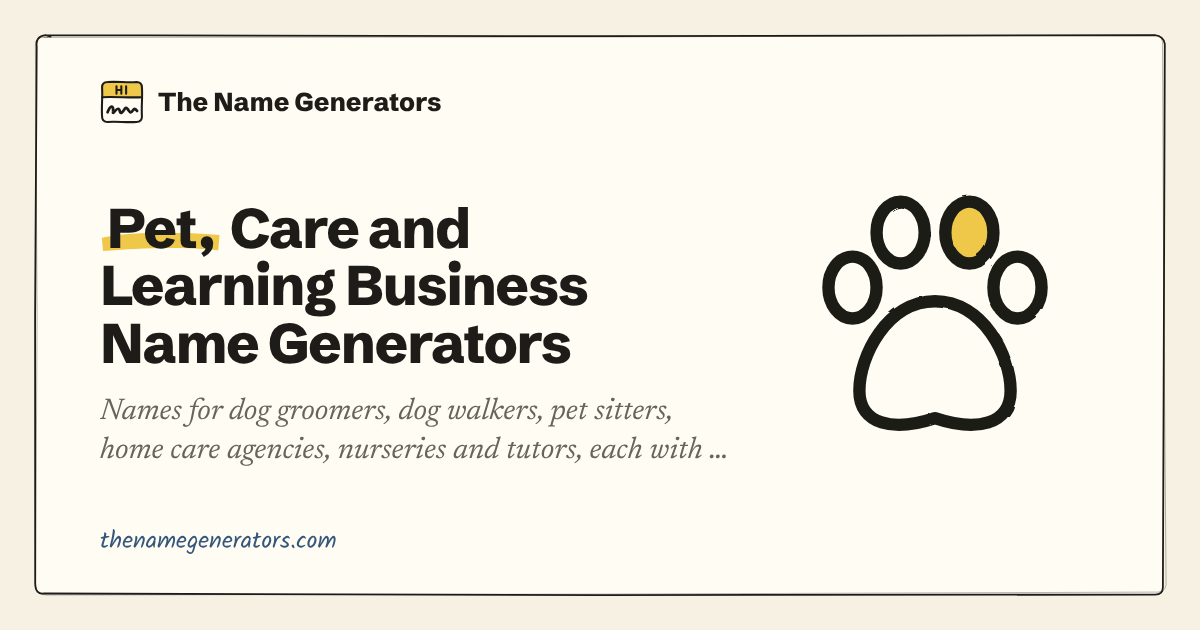
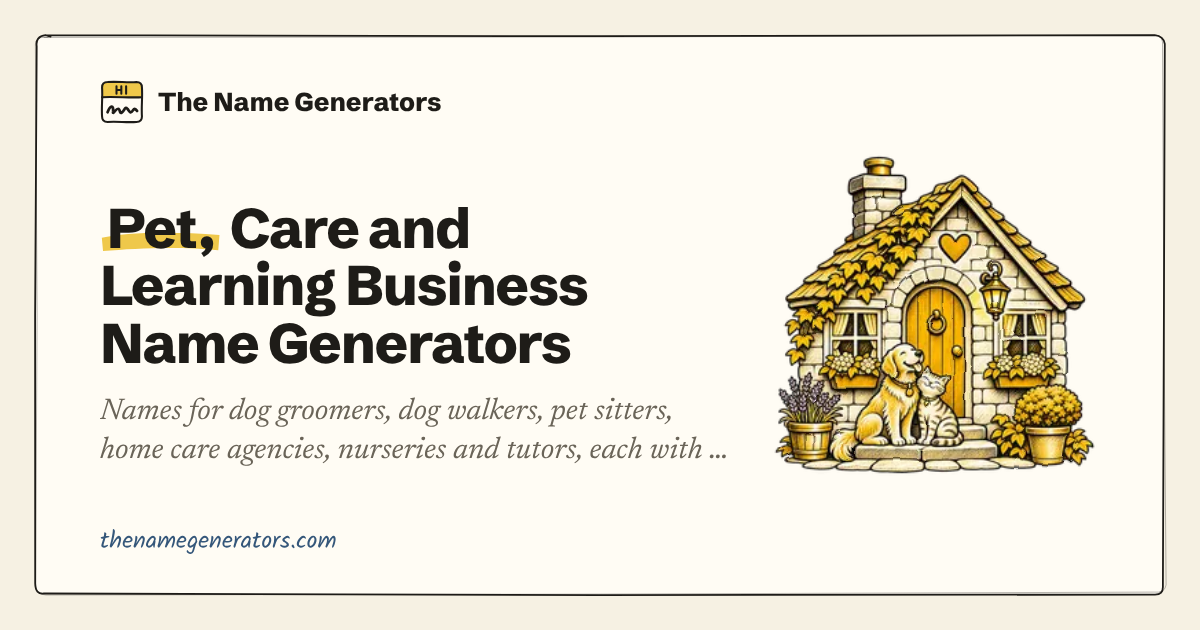
Rich's last three business pictures: gift shop, office desk, pet cottage
Shops & Makers, Professional Services and Pets, Care & Learning hubs.
Every business hub and the checker now have Rich's art.

Claude-Session: https://claude.ai/code/session_011pNxwvj5bpbeqWGuDmTbY5

Changed region(s): [[0.6475, 0.2413, 0.925, 0.754]]

diff --git a/business.html b/business.html
@@ -119,9 +119,10 @@
       <symbol id="m-cafe-front" viewBox="0 0 48 48"><image href="/images/motifs/cafe-front.webp?v=2" width="48" height="48"/></symbol>
       <symbol id="m-salon-chair" viewBox="0 0 48 48"><image href="/images/motifs/salon-chair.webp?v=2" width="48" height="48"/></symbol>
       <symbol id="m-toolbox" viewBox="0 0 48 48"><image href="/images/motifs/toolbox.webp?v=2" width="48" height="48"/></symbol>
-      <symbol id="m-shopfront" viewBox="0 0 48 48"><g fill="none" stroke="#1e1c18" stroke-width="1.8" stroke-linecap="round" stroke-linejoin="round"><path d="M9 22 V43 H39 V22" fill="#fffcf4"/><path d="M6 13 H42 V21 H6 Z" fill="#efc84a"/><path d="M6 21 c2 3 5 3 6 0 c1 3 5 3 6 0 c1 3 5 3 6 0 c1 3 5 3 6 0 c1 3 5 3 6 0 c1 3 4 3 6 0" stroke-width="1.4"/><path d="M14 43 V30 h7 V43 M25 29 h10 v8 h-10 z M5 43 H43"/></g></symbol>
+      <symbol id="m-gift-shop" viewBox="0 0 48 48"><image href="/images/motifs/gift-shop.webp?v=2" width="48" height="48"/></symbol>
+      <symbol id="m-office-desk" viewBox="0 0 48 48"><image href="/images/motifs/office-desk.webp?v=2" width="48" height="48"/></symbol>
+      <symbol id="m-pet-cottage" viewBox="0 0 48 48"><image href="/images/motifs/pet-cottage.webp?v=2" width="48" height="48"/></symbol>
       <symbol id="m-lightbulb" viewBox="0 0 48 48"><g fill="none" stroke="#1e1c18" stroke-width="1.8" stroke-linecap="round" stroke-linejoin="round"><path d="M24 5 C32 5 37 11 37 17 C37 24 31 26 31 33 L17 33 C17 26 11 24 11 17 C11 11 16 5 24 5 Z" fill="#efc84a"/><path d="M18 37 h12 M19 41 h10"/><path d="M21 33 V22 l3 3 l3 -3 V33" stroke-width="1.3"/></g></symbol>
-      <symbol id="m-paw" viewBox="0 0 48 48"><g fill="none" stroke="#1e1c18" stroke-width="1.8" stroke-linecap="round" stroke-linejoin="round"><path d="M24 22 C31 22 35 30 35 35 C35 40 30 41 24 39 C18 41 13 40 13 35 C13 30 17 22 24 22 Z" fill="#fffcf4"/><ellipse cx="12" cy="20" rx="3.5" ry="4.5" fill="#fffcf4"/><ellipse cx="19" cy="12" rx="3.5" ry="4.5" fill="#fffcf4"/><ellipse cx="29" cy="12" rx="3.5" ry="4.5" fill="#efc84a"/><ellipse cx="36" cy="20" rx="3.5" ry="4.5" fill="#fffcf4"/></g></symbol>
       <symbol id="m-building" viewBox="0 0 48 48"><g fill="none" stroke="#1e1c18" stroke-width="1.8" stroke-linecap="round" stroke-linejoin="round"><path d="M30 20 H40 V44 H30" fill="#fffcf4"/><path d="M10 7 H30 V44 H10 Z" fill="#fffcf4"/><path d="M14 12 h4 v4 h-4 z M22 12 h4 v4 h-4 z M14 20 h4 v4 h-4 z M22 20 h4 v4 h-4 z M14 28 h4 v4 h-4 z M22 28 h4 v4 h-4 z M33 25 h4 M33 31 h4" stroke-width="1.3"/><path d="M18 44 V37 h4 V44"/><path d="M4 45 C14 42 30 47 44 44" stroke="#efc84a" stroke-width="3"/></g></symbol>
       <symbol id="m-tag" viewBox="0 0 48 48"><g fill="none" stroke="#1e1c18" stroke-width="1.8" stroke-linecap="round" stroke-linejoin="round"><path d="M24 6 H40 V22 L22 40 L8 26 Z" fill="#fffcf4"/><circle cx="34" cy="12" r="2.5"/><path d="M34 12 C38 6 44 6 44 10" stroke-width="1.3"/><path d="M14 26 L22 34" stroke="#efc84a" stroke-width="4"/></g></symbol>
       <symbol id="m-cup" viewBox="0 0 48 48"><g fill="none" stroke="#1e1c18" stroke-width="1.8" stroke-linecap="round" stroke-linejoin="round"><path d="M12 18 H34 L32 38 C32 41 30 42 28 42 H18 C16 42 14 41 14 38 Z" fill="#fffcf4"/><path d="M34 22 C41 22 41 32 33 32"/><path d="M7 44 H39"/><path d="M19 13 c-2 -3 2 -5 0 -9 M27 13 c-2 -3 2 -5 0 -9" stroke="#efc84a" stroke-width="2.6"/></g></symbol>
@@ -248,9 +249,9 @@
                     <a class="trycard hd tap" href="categories/biz_food-names.html"><svg class="doodle try-d wob" viewBox="0 0 48 48" aria-hidden="true" focusable="false"><use href="#m-cafe-front"/></svg><span class="try-t"><b>Food &amp; Drink Businesses</b><span>Names for bakeries, cake makers, food trucks, caterers, bars and cafés, each with a check to see if it&#039;s free.</span><span class="biz-count">5 generators →</span></span></a>
                     <a class="trycard hd tap" href="categories/biz_beauty-names.html"><svg class="doodle try-d wob" viewBox="0 0 48 48" aria-hidden="true" focusable="false"><use href="#m-salon-chair"/></svg><span class="try-t"><b>Beauty Businesses</b><span>Names for hair and beauty salons, nail techs, lash studios, spas and fitness businesses, each with a check to see if it&#039;s free.</span><span class="biz-count">8 generators →</span></span></a>
                     <a class="trycard hd tap" href="categories/biz_trades-names.html"><svg class="doodle try-d wob" viewBox="0 0 48 48" aria-hidden="true" focusable="false"><use href="#m-toolbox"/></svg><span class="try-t"><b>Trades &amp; Home Services</b><span>Names for cleaners, builders, landscapers, plumbers and other trades, each with a check to see if it&#039;s free.</span><span class="biz-count">8 generators →</span></span></a>
-                    <a class="trycard hd tap" href="categories/biz_shops-names.html"><svg class="doodle try-d wob" viewBox="0 0 48 48" aria-hidden="true" focusable="false"><use href="#m-shopfront"/></svg><span class="try-t"><b>Shops &amp; Makers</b><span>Names for clothing brands, boutiques, candle makers, jewellers and Etsy shops, each with a check to see if it&#039;s free.</span><span class="biz-count">5 generators →</span></span></a>
-                    <a class="trycard hd tap" href="categories/biz_services-names.html"><svg class="doodle try-d wob" viewBox="0 0 48 48" aria-hidden="true" focusable="false"><use href="#m-lightbulb"/></svg><span class="try-t"><b>Professional Services</b><span>Names for consultants, photographers, estate agents, event planners and agencies, each with a check to see if it&#039;s free.</span><span class="biz-count">10 generators →</span></span></a>
-                    <a class="trycard hd tap" href="categories/biz_care-names.html"><svg class="doodle try-d wob" viewBox="0 0 48 48" aria-hidden="true" focusable="false"><use href="#m-paw"/></svg><span class="try-t"><b>Pets, Care &amp; Learning</b><span>Names for dog groomers, dog walkers, pet sitters, home care agencies, nurseries and tutors, each with a check to see if it&#039;s free.</span><span class="biz-count">4 generators →</span></span></a>
+                    <a class="trycard hd tap" href="categories/biz_shops-names.html"><svg class="doodle try-d wob" viewBox="0 0 48 48" aria-hidden="true" focusable="false"><use href="#m-gift-shop"/></svg><span class="try-t"><b>Shops &amp; Makers</b><span>Names for clothing brands, boutiques, candle makers, jewellers and Etsy shops, each with a check to see if it&#039;s free.</span><span class="biz-count">5 generators →</span></span></a>
+                    <a class="trycard hd tap" href="categories/biz_services-names.html"><svg class="doodle try-d wob" viewBox="0 0 48 48" aria-hidden="true" focusable="false"><use href="#m-office-desk"/></svg><span class="try-t"><b>Professional Services</b><span>Names for consultants, photographers, estate agents, event planners and agencies, each with a check to see if it&#039;s free.</span><span class="biz-count">10 generators →</span></span></a>
+                    <a class="trycard hd tap" href="categories/biz_care-names.html"><svg class="doodle try-d wob" viewBox="0 0 48 48" aria-hidden="true" focusable="false"><use href="#m-pet-cottage"/></svg><span class="try-t"><b>Pets, Care &amp; Learning</b><span>Names for dog groomers, dog walkers, pet sitters, home care agencies, nurseries and tutors, each with a check to see if it&#039;s free.</span><span class="biz-count">4 generators →</span></span></a>
                 </div>
             </section>
             <div class="brk" aria-hidden="true"><svg class="brk-line wob" viewBox="0 0 120 10" preserveAspectRatio="none" aria-hidden="true" focusable="false"><path d="M2 5 C20 2 35 8 60 5 S100 3 118 5" fill="none" stroke="#1e1c18" stroke-width="1.6" stroke-linecap="round" vector-effect="non-scaling-stroke"/></svg><svg class="brk-d wob" viewBox="0 0 48 48" aria-hidden="true" focusable="false"><use href="#m-shopfront"/></svg><svg class="brk-line wob" viewBox="0 0 120 10" preserveAspectRatio="none" aria-hidden="true" focusable="false"><path d="M2 5 C20 2 35 8 60 5 S100 3 118 5" fill="none" stroke="#1e1c18" stroke-width="1.6" stroke-linecap="round" vector-effect="non-scaling-stroke"/></svg></div>

diff --git a/404.html b/404.html
@@ -55,10 +55,11 @@
       <symbol id="m-hourglass" viewBox="0 0 48 48"><g fill="none" stroke="#1e1c18" stroke-width="1.8" stroke-linecap="round" stroke-linejoin="round"><path d="M11 5 H37 M11 43 H37"/><path d="M15 5 C15 17 23 20 23 24 C23 28 15 31 15 43 H33 C33 31 25 28 25 24 C25 20 33 17 33 5 Z" fill="#fffcf4"/><path d="M18 40 C20 35 28 35 30 40 Z" fill="#efc84a"/><path d="M24 28 V34" stroke-width="1.2"/></g></symbol>
       <symbol id="m-clapper" viewBox="0 0 48 48"><g fill="none" stroke="#1e1c18" stroke-width="1.8" stroke-linecap="round" stroke-linejoin="round"><rect x="8" y="19" width="32" height="23" rx="2" fill="#fffcf4"/><path d="M8 19 L37 8 L39 14 L10 25"/><path d="M15 16 L18 22 M23 13 L26 19 M31 10 L34 16" stroke-width="1.3"/><path d="M14 31 h20" stroke="#efc84a" stroke-width="3"/></g></symbol>
       <symbol id="m-toolbox" viewBox="0 0 48 48"><image href="/images/motifs/toolbox.webp?v=2" width="48" height="48"/></symbol>
-      <symbol id="m-paw" viewBox="0 0 48 48"><g fill="none" stroke="#1e1c18" stroke-width="1.8" stroke-linecap="round" stroke-linejoin="round"><path d="M24 22 C31 22 35 30 35 35 C35 40 30 41 24 39 C18 41 13 40 13 35 C13 30 17 22 24 22 Z" fill="#fffcf4"/><ellipse cx="12" cy="20" rx="3.5" ry="4.5" fill="#fffcf4"/><ellipse cx="19" cy="12" rx="3.5" ry="4.5" fill="#fffcf4"/><ellipse cx="29" cy="12" rx="3.5" ry="4.5" fill="#efc84a"/><ellipse cx="36" cy="20" rx="3.5" ry="4.5" fill="#fffcf4"/></g></symbol>
+      <symbol id="m-office-desk" viewBox="0 0 48 48"><image href="/images/motifs/office-desk.webp?v=2" width="48" height="48"/></symbol>
+      <symbol id="m-pet-cottage" viewBox="0 0 48 48"><image href="/images/motifs/pet-cottage.webp?v=2" width="48" height="48"/></symbol>
       <symbol id="m-salon-chair" viewBox="0 0 48 48"><image href="/images/motifs/salon-chair.webp?v=2" width="48" height="48"/></symbol>
       <symbol id="m-cafe-front" viewBox="0 0 48 48"><image href="/images/motifs/cafe-front.webp?v=2" width="48" height="48"/></symbol>
-      <symbol id="m-shopfront" viewBox="0 0 48 48"><g fill="none" stroke="#1e1c18" stroke-width="1.8" stroke-linecap="round" stroke-linejoin="round"><path d="M9 22 V43 H39 V22" fill="#fffcf4"/><path d="M6 13 H42 V21 H6 Z" fill="#efc84a"/><path d="M6 21 c2 3 5 3 6 0 c1 3 5 3 6 0 c1 3 5 3 6 0 c1 3 5 3 6 0 c1 3 5 3 6 0 c1 3 4 3 6 0" stroke-width="1.4"/><path d="M14 43 V30 h7 V43 M25 29 h10 v8 h-10 z M5 43 H43"/></g></symbol>
+      <symbol id="m-gift-shop" viewBox="0 0 48 48"><image href="/images/motifs/gift-shop.webp?v=2" width="48" height="48"/></symbol>
     </defs></svg>
     <header class="site-header">
       <div class="wrap bar">
@@ -196,11 +197,11 @@
                     <a href="/categories/historical-names.html" class="cat hd tap"><svg class="doodle wob" viewBox="0 0 48 48" aria-hidden="true" focusable="false"><use href="#m-hourglass"/></svg><div><b>Historical</b><span>11 generators</span></div><em aria-hidden="true">→</em></a>
                     <a href="/categories/pop_culture-names.html" class="cat hd tap"><svg class="doodle wob" viewBox="0 0 48 48" aria-hidden="true" focusable="false"><use href="#m-clapper"/></svg><div><b>Pop Culture</b><span>28 generators</span></div><em aria-hidden="true">→</em></a>
                     <a href="/categories/biz_trades-names.html" class="cat hd tap"><svg class="doodle wob" viewBox="0 0 48 48" aria-hidden="true" focusable="false"><use href="#m-toolbox"/></svg><div><b>Trades &amp; Home Services Business Names</b><span>8 generators</span></div><em aria-hidden="true">→</em></a>
-                    <a href="/categories/biz_services-names.html" class="cat hd tap"><svg class="doodle wob" viewBox="0 0 48 48" aria-hidden="true" focusable="false"><use href="#m-lightbulb"/></svg><div><b>Professional &amp; Creative Business Names</b><span>10 generators</span></div><em aria-hidden="true">→</em></a>
-                    <a href="/categories/biz_care-names.html" class="cat hd tap"><svg class="doodle wob" viewBox="0 0 48 48" aria-hidden="true" focusable="false"><use href="#m-paw"/></svg><div><b>Pets, Care &amp; Learning Business Names</b><span>4 generators</span></div><em aria-hidden="true">→</em></a>
+                    <a href="/categories/biz_services-names.html" class="cat hd tap"><svg class="doodle wob" viewBox="0 0 48 48" aria-hidden="true" focusable="false"><use href="#m-office-desk"/></svg><div><b>Professional &amp; Creative Business Names</b><span>10 generators</span></div><em aria-hidden="true">→</em></a>
+                    <a href="/categories/biz_care-names.html" class="cat hd tap"><svg class="doodle wob" viewBox="0 0 48 48" aria-hidden="true" focusable="false"><use href="#m-pet-cottage"/></svg><div><b>Pets, Care &amp; Learning Business Names</b><span>4 generators</span></div><em aria-hidden="true">→</em></a>
                     <a href="/categories/biz_beauty-names.html" class="cat hd tap"><svg class="doodle wob" viewBox="0 0 48 48" aria-hidden="true" focusable="false"><use href="#m-salon-chair"/></svg><div><b>Beauty &amp; Wellness Business Names</b><span>8 generators</span></div><em aria-hidden="true">→</em></a>
                     <a href="/categories/biz_food-names.html" class="cat hd tap"><svg class="doodle wob" viewBox="0 0 48 48" aria-hidden="true" focusable="false"><use href="#m-cafe-front"/></svg><div><b>Food &amp; Drink Business Names</b><span>5 generators</span></div><em aria-hidden="true">→</em></a>
-                    <a href="/categories/biz_shops-names.html" class="cat hd tap"><svg class="doodle wob" viewBox="0 0 48 48" aria-hidden="true" focusable="false"><use href="#m-shopfront"/></svg><div><b>Shops, Brands &amp; Makers Business Names</b><span>5 generators</span></div><em aria-hidden="true">→</em></a>
+                    <a href="/categories/biz_shops-names.html" class="cat hd tap"><svg class="doodle wob" viewBox="0 0 48 48" aria-hidden="true" focusable="false"><use href="#m-gift-shop"/></svg><div><b>Shops, Brands &amp; Makers Business Names</b><span>5 generators</span></div><em aria-hidden="true">→</em></a>
                 </div>
             </section>
         </main>

diff --git a/categories/biz_care-names.html b/categories/biz_care-names.html
@@ -105,6 +105,7 @@
       <symbol id="i-search" viewBox="0 0 22 22"><circle cx="9.5" cy="9.5" r="6.5" fill="none" stroke="currentColor" stroke-width="2.2"/><path d="M14.5 14.5 L20 20" fill="none" stroke="currentColor" stroke-width="2.4" stroke-linecap="round"/></symbol>
       <symbol id="i-doc" viewBox="0 0 16 20"><path d="M2 1.5 H10 L14 5.5 V18.5 H2 Z" fill="none" stroke="currentColor" stroke-width="1.5" stroke-linejoin="round"/><path d="M10 1.5 V5.5 H14 M5 10 h6 M5 13 h6 M5 16 h4" fill="none" stroke="currentColor" stroke-width="1.3" stroke-linecap="round"/></symbol>
       <symbol id="i-tick" viewBox="0 0 22 18"><path d="M2 10 C5 12 7 14 8 16 C11 10 15 5 20 2" fill="none" stroke="currentColor" stroke-width="2" stroke-linecap="round"/></symbol>
+      <symbol id="m-pet-cottage" viewBox="0 0 48 48"><image href="/images/motifs/pet-cottage.webp?v=2" width="48" height="48"/></symbol>
       <symbol id="m-paw" viewBox="0 0 48 48"><g fill="none" stroke="#1e1c18" stroke-width="1.8" stroke-linecap="round" stroke-linejoin="round"><path d="M24 22 C31 22 35 30 35 35 C35 40 30 41 24 39 C18 41 13 40 13 35 C13 30 17 22 24 22 Z" fill="#fffcf4"/><ellipse cx="12" cy="20" rx="3.5" ry="4.5" fill="#fffcf4"/><ellipse cx="19" cy="12" rx="3.5" ry="4.5" fill="#fffcf4"/><ellipse cx="29" cy="12" rx="3.5" ry="4.5" fill="#efc84a"/><ellipse cx="36" cy="20" rx="3.5" ry="4.5" fill="#fffcf4"/></g></symbol>
       <symbol id="m-dog" viewBox="0 0 48 48"><g fill="none" stroke="#1e1c18" stroke-width="1.8" stroke-linecap="round" stroke-linejoin="round"><path d="M15 12 C18 8 30 8 33 12 C37 18 37 30 31 36 C28 39 20 39 17 36 C11 30 11 18 15 12 Z" fill="#fffcf4"/><path d="M15 11 C8 11 5 21 9 28 C12 26 14 20 16.5 15 Z" fill="#efc84a"/><path d="M33 11 C40 11 43 21 39 28 C36 26 34 20 31.5 15 Z" fill="#efc84a"/><circle cx="20" cy="21" r="1.5" fill="#1e1c18"/><circle cx="28" cy="21" r="1.5" fill="#1e1c18"/><path d="M18 30 C18 25 30 25 30 30 C30 35 18 35 18 30 Z" fill="#fffcf4"/><path d="M22 27.5 h4 l-2 2.2 z" fill="#1e1c18" stroke-width="1"/><path d="M24 29.8 v2 M21.5 32.8 C23 34 25 34 26.5 32.8" stroke-width="1.2"/></g></symbol>
       <symbol id="m-house" viewBox="0 0 48 48"><g fill="none" stroke="#1e1c18" stroke-width="1.8" stroke-linecap="round" stroke-linejoin="round"><path d="M30 13 V6 h4 v10" fill="#fffcf4"/><path d="M12 20 V42 H36 V20" fill="#fffcf4"/><path d="M8 22 L24 8 L40 22"/><path d="M21 42 V32 h6 V42"/><path d="M15 26 h4 v4 h-4 z M29 26 h4 v4 h-4 z" stroke-width="1.3"/><path d="M4 45 C14 42 30 47 44 44" stroke="#efc84a" stroke-width="3"/></g></symbol>
@@ -217,7 +218,7 @@
                     <p class="eyebrow">Business names by trade</p>
                     <div class="titlerow">
                         <h1><span class="hl">Pets,</span> Care &amp; Learning</h1>
-                        <svg class="doodle wob" viewBox="0 0 48 48" aria-hidden="true" focusable="false"><use href="#m-paw"/></svg>
+                        <svg class="doodle wob" viewBox="0 0 48 48" aria-hidden="true" focusable="false"><use href="#m-pet-cottage"/></svg>
                     </div>
                     <p class="lede">Names for dog groomers, dog walkers, pet sitters, home care agencies, nurseries and tutors, each with a check to see if it&#039;s free.</p>
                 </div>
@@ -301,7 +302,7 @@
                     <a href="../posts/home-care-name-generator.html" class="trycard hd tap"><svg class="doodle try-d wob" viewBox="0 0 48 48" aria-hidden="true" focusable="false"><use href="#m-house"/></svg><span class="try-t"><b>Home Care Name Generator</b><span>Calm, kind names for a home care agency.</span></span><em aria-hidden="true">→</em></a>
                 </div>
             </section>
-            <div class="brk" aria-hidden="true"><svg class="brk-line wob" viewBox="0 0 120 10" preserveAspectRatio="none" aria-hidden="true" focusable="false"><path d="M2 5 C20 2 35 8 60 5 S100 3 118 5" fill="none" stroke="#1e1c18" stroke-width="1.6" stroke-linecap="round" vector-effect="non-scaling-stroke"/></svg><svg class="brk-d wob" viewBox="0 0 48 48" aria-hidden="true" focusable="false"><use href="#m-paw"/></svg><svg class="brk-line wob" viewBox="0 0 120 10" preserveAspectRatio="none" aria-hidden="true" focusable="false"><path d="M2 5 C20 2 35 8 60 5 S100 3 118 5" fill="none" stroke="#1e1c18" stroke-width="1.6" stroke-linecap="round" vector-effect="non-scaling-stroke"/></svg></div>
+            <div class="brk" aria-hidden="true"><svg class="brk-line wob" viewBox="0 0 120 10" preserveAspectRatio="none" aria-hidden="true" focusable="false"><path d="M2 5 C20 2 35 8 60 5 S100 3 118 5" fill="none" stroke="#1e1c18" stroke-width="1.6" stroke-linecap="round" vector-effect="non-scaling-stroke"/></svg><svg class="brk-d wob" viewBox="0 0 48 48" aria-hidden="true" focusable="false"><use href="#m-pet-cottage"/></svg><svg class="brk-line wob" viewBox="0 0 120 10" preserveAspectRatio="none" aria-hidden="true" focusable="false"><path d="M2 5 C20 2 35 8 60 5 S100 3 118 5" fill="none" stroke="#1e1c18" stroke-width="1.6" stroke-linecap="round" vector-effect="non-scaling-stroke"/></svg></div>
 
             <section class="section">
                 <h2>All 4 Pets, Care &amp; Learning Business Names generators</h2>

diff --git a/categories/biz_services-names.html b/categories/biz_services-names.html
@@ -141,6 +141,7 @@
       <symbol id="i-search" viewBox="0 0 22 22"><circle cx="9.5" cy="9.5" r="6.5" fill="none" stroke="currentColor" stroke-width="2.2"/><path d="M14.5 14.5 L20 20" fill="none" stroke="currentColor" stroke-width="2.4" stroke-linecap="round"/></symbol>
       <symbol id="i-doc" viewBox="0 0 16 20"><path d="M2 1.5 H10 L14 5.5 V18.5 H2 Z" fill="none" stroke="currentColor" stroke-width="1.5" stroke-linejoin="round"/><path d="M10 1.5 V5.5 H14 M5 10 h6 M5 13 h6 M5 16 h4" fill="none" stroke="currentColor" stroke-width="1.3" stroke-linecap="round"/></symbol>
       <symbol id="i-tick" viewBox="0 0 22 18"><path d="M2 10 C5 12 7 14 8 16 C11 10 15 5 20 2" fill="none" stroke="currentColor" stroke-width="2" stroke-linecap="round"/></symbol>
+      <symbol id="m-office-desk" viewBox="0 0 48 48"><image href="/images/motifs/office-desk.webp?v=2" width="48" height="48"/></symbol>
       <symbol id="m-lightbulb" viewBox="0 0 48 48"><g fill="none" stroke="#1e1c18" stroke-width="1.8" stroke-linecap="round" stroke-linejoin="round"><path d="M24 5 C32 5 37 11 37 17 C37 24 31 26 31 33 L17 33 C17 26 11 24 11 17 C11 11 16 5 24 5 Z" fill="#efc84a"/><path d="M18 37 h12 M19 41 h10"/><path d="M21 33 V22 l3 3 l3 -3 V33" stroke-width="1.3"/></g></symbol>
       <symbol id="m-bunting" viewBox="0 0 48 48"><g fill="none" stroke="#1e1c18" stroke-width="1.8" stroke-linecap="round" stroke-linejoin="round"><path d="M3 9 C15 18 33 18 45 9"/><path d="M8 12 l3 10 l5 -8" fill="#efc84a"/><path d="M19 15 l3 10 l4 -10" fill="#fffcf4"/><path d="M29 15 l3 10 l4 -9" fill="#efc84a"/><path d="M39 12 l2 9 l3 -7" fill="#fffcf4"/><path d="M14 36 l2 -4 l2 4 M28 40 l3 -3 M35 33 l3 1" stroke-width="1.5"/></g></symbol>
       <symbol id="m-film-reel" viewBox="0 0 48 48"><g fill="none" stroke="#1e1c18" stroke-width="1.8" stroke-linecap="round" stroke-linejoin="round"><path d="M33 35 C39 39 41 42 46 42 V47 C40 47 37 45 30 39 Z" fill="#efc84a"/><circle cx="22" cy="22" r="16" fill="#fffcf4"/><circle cx="22" cy="22" r="2.6" fill="#1e1c18"/><circle cx="22.0" cy="13.0" r="3.6" fill="#1e1c18"/><circle cx="30.6" cy="19.2" r="3.6" fill="#1e1c18"/><circle cx="27.3" cy="29.3" r="3.6" fill="#1e1c18"/><circle cx="16.7" cy="29.3" r="3.6" fill="#1e1c18"/><circle cx="13.4" cy="19.2" r="3.6" fill="#1e1c18"/></g></symbol>
@@ -259,7 +260,7 @@
                     <p class="eyebrow">Business names by trade</p>
                     <div class="titlerow">
                         <h1><span class="hl">Professional</span> Services</h1>
-                        <svg class="doodle wob" viewBox="0 0 48 48" aria-hidden="true" focusable="false"><use href="#m-lightbulb"/></svg>
+                        <svg class="doodle wob" viewBox="0 0 48 48" aria-hidden="true" focusable="false"><use href="#m-office-desk"/></svg>
                     </div>
                     <p class="lede">Names for consultants, photographers, estate agents, event planners and agencies, each with a check to see if it&#039;s free.</p>
                 </div>
@@ -343,7 +344,7 @@
                     <a href="../posts/photography-business-name-generator.html" class="trycard hd tap"><svg class="doodle try-d wob" viewBox="0 0 48 48" aria-hidden="true" focusable="false"><use href="#m-film-reel"/></svg><span class="try-t"><b>Photography Business Name Generator</b><span>Photography names for weddings, families, newborns and pets.</span></span><em aria-hidden="true">→</em></a>
                 </div>
             </section>
-            <div class="brk" aria-hidden="true"><svg class="brk-line wob" viewBox="0 0 120 10" preserveAspectRatio="none" aria-hidden="true" focusable="false"><path d="M2 5 C20 2 35 8 60 5 S100 3 118 5" fill="none" stroke="#1e1c18" stroke-width="1.6" stroke-linecap="round" vector-effect="non-scaling-stroke"/></svg><svg class="brk-d wob" viewBox="0 0 48 48" aria-hidden="true" focusable="false"><use href="#m-lightbulb"/></svg><svg class="brk-line wob" viewBox="0 0 120 10" preserveAspectRatio="none" aria-hidden="true" focusable="false"><path d="M2 5 C20 2 35 8 60 5 S100 3 118 5" fill="none" stroke="#1e1c18" stroke-width="1.6" stroke-linecap="round" vector-effect="non-scaling-stroke"/></svg></div>
+            <div class="brk" aria-hidden="true"><svg class="brk-line wob" viewBox="0 0 120 10" preserveAspectRatio="none" aria-hidden="true" focusable="false"><path d="M2 5 C20 2 35 8 60 5 S100 3 118 5" fill="none" stroke="#1e1c18" stroke-width="1.6" stroke-linecap="round" vector-effect="non-scaling-stroke"/></svg><svg class="brk-d wob" viewBox="0 0 48 48" aria-hidden="true" focusable="false"><use href="#m-office-desk"/></svg><svg class="brk-line wob" viewBox="0 0 120 10" preserveAspectRatio="none" aria-hidden="true" focusable="false"><path d="M2 5 C20 2 35 8 60 5 S100 3 118 5" fill="none" stroke="#1e1c18" stroke-width="1.6" stroke-linecap="round" vector-effect="non-scaling-stroke"/></svg></div>
 
             <section class="section">
                 <h2>All 10 Professional &amp; Creative Business Names generators</h2>

diff --git a/categories/biz_shops-names.html b/categories/biz_shops-names.html
@@ -111,6 +111,7 @@
       <symbol id="i-search" viewBox="0 0 22 22"><circle cx="9.5" cy="9.5" r="6.5" fill="none" stroke="currentColor" stroke-width="2.2"/><path d="M14.5 14.5 L20 20" fill="none" stroke="currentColor" stroke-width="2.4" stroke-linecap="round"/></symbol>
       <symbol id="i-doc" viewBox="0 0 16 20"><path d="M2 1.5 H10 L14 5.5 V18.5 H2 Z" fill="none" stroke="currentColor" stroke-width="1.5" stroke-linejoin="round"/><path d="M10 1.5 V5.5 H14 M5 10 h6 M5 13 h6 M5 16 h4" fill="none" stroke="currentColor" stroke-width="1.3" stroke-linecap="round"/></symbol>
       <symbol id="i-tick" viewBox="0 0 22 18"><path d="M2 10 C5 12 7 14 8 16 C11 10 15 5 20 2" fill="none" stroke="currentColor" stroke-width="2" stroke-linecap="round"/></symbol>
+      <symbol id="m-gift-shop" viewBox="0 0 48 48"><image href="/images/motifs/gift-shop.webp?v=2" width="48" height="48"/></symbol>
       <symbol id="m-shopfront" viewBox="0 0 48 48"><g fill="none" stroke="#1e1c18" stroke-width="1.8" stroke-linecap="round" stroke-linejoin="round"><path d="M9 22 V43 H39 V22" fill="#fffcf4"/><path d="M6 13 H42 V21 H6 Z" fill="#efc84a"/><path d="M6 21 c2 3 5 3 6 0 c1 3 5 3 6 0 c1 3 5 3 6 0 c1 3 5 3 6 0 c1 3 5 3 6 0 c1 3 4 3 6 0" stroke-width="1.4"/><path d="M14 43 V30 h7 V43 M25 29 h10 v8 h-10 z M5 43 H43"/></g></symbol>
       <symbol id="m-candle" viewBox="0 0 48 48"><g fill="none" stroke="#1e1c18" stroke-width="1.8" stroke-linecap="round" stroke-linejoin="round"><path d="M24 19 c-3 -4 0 -8 0 -12 c3 4 5 8 0 12 z" fill="#efc84a"/><path d="M19 21 h10 v21 h-10 z" fill="#fffcf4"/><path d="M19 25 c2 2 3 0 4 3 M29 24 c-1 2 -2 1 -2 4" stroke-width="1.4"/><path d="M13 43 h22"/><path d="M38 5 a6 6 0 1 0 6 8 a5 5 0 1 1 -6 -8 z"/></g></symbol>
       <symbol id="m-tag" viewBox="0 0 48 48"><g fill="none" stroke="#1e1c18" stroke-width="1.8" stroke-linecap="round" stroke-linejoin="round"><path d="M24 6 H40 V22 L22 40 L8 26 Z" fill="#fffcf4"/><circle cx="34" cy="12" r="2.5"/><path d="M34 12 C38 6 44 6 44 10" stroke-width="1.3"/><path d="M14 26 L22 34" stroke="#efc84a" stroke-width="4"/></g></symbol>
@@ -222,7 +223,7 @@
                     <p class="eyebrow">Business names by trade</p>
                     <div class="titlerow">
                         <h1><span class="hl">Shops</span> &amp; Makers</h1>
-                        <svg class="doodle wob" viewBox="0 0 48 48" aria-hidden="true" focusable="false"><use href="#m-shopfront"/></svg>
+                        <svg class="doodle wob" viewBox="0 0 48 48" aria-hidden="true" focusable="false"><use href="#m-gift-shop"/></svg>
                     </div>
                     <p class="lede">Names for clothing brands, boutiques, candle makers, jewellers and Etsy shops, each with a check to see if it&#039;s free.</p>
                 </div>
@@ -305,7 +306,7 @@
                     <a href="../posts/clothing-brand-name-generator.html" class="trycard hd tap"><svg class="doodle try-d wob" viewBox="0 0 48 48" aria-hidden="true" focusable="false"><use href="#m-tag"/></svg><span class="try-t"><b>Clothing Brand Name Generator</b><span>Clothing brand names: streetwear, Y2K, luxury and heritage.</span></span><em aria-hidden="true">→</em></a>
                 </div>
             </section>
-            <div class="brk" aria-hidden="true"><svg class="brk-line wob" viewBox="0 0 120 10" preserveAspectRatio="none" aria-hidden="true" focusable="false"><path d="M2 5 C20 2 35 8 60 5 S100 3 118 5" fill="none" stroke="#1e1c18" stroke-width="1.6" stroke-linecap="round" vector-effect="non-scaling-stroke"/></svg><svg class="brk-d wob" viewBox="0 0 48 48" aria-hidden="true" focusable="false"><use href="#m-shopfront"/></svg><svg class="brk-line wob" viewBox="0 0 120 10" preserveAspectRatio="none" aria-hidden="true" focusable="false"><path d="M2 5 C20 2 35 8 60 5 S100 3 118 5" fill="none" stroke="#1e1c18" stroke-width="1.6" stroke-linecap="round" vector-effect="non-scaling-stroke"/></svg></div>
+            <div class="brk" aria-hidden="true"><svg class="brk-line wob" viewBox="0 0 120 10" preserveAspectRatio="none" aria-hidden="true" focusable="false"><path d="M2 5 C20 2 35 8 60 5 S100 3 118 5" fill="none" stroke="#1e1c18" stroke-width="1.6" stroke-linecap="round" vector-effect="non-scaling-stroke"/></svg><svg class="brk-d wob" viewBox="0 0 48 48" aria-hidden="true" focusable="false"><use href="#m-gift-shop"/></svg><svg class="brk-line wob" viewBox="0 0 120 10" preserveAspectRatio="none" aria-hidden="true" focusable="false"><path d="M2 5 C20 2 35 8 60 5 S100 3 118 5" fill="none" stroke="#1e1c18" stroke-width="1.6" stroke-linecap="round" vector-effect="non-scaling-stroke"/></svg></div>
 
             <section class="section">
                 <h2>All 5 Shops, Brands &amp; Makers Business Names generators</h2>

diff --git a/lib/illustrations.js b/lib/illustrations.js
@@ -241,6 +241,9 @@
     "toolbox": { name: "Toolbox", img: "images/motifs/toolbox.webp?v=2" },
     "salon-chair": { name: "Salon chair", img: "images/motifs/salon-chair.webp?v=2" },
     "cafe-front": { name: "Caf\u00e9 front", img: "images/motifs/cafe-front.webp?v=2" },
+    "office-desk": { name: "Office desk", img: "images/motifs/office-desk.webp?v=2" },
+    "pet-cottage": { name: "Cottage with dog and cat", img: "images/motifs/pet-cottage.webp?v=2" },
+    "gift-shop": { name: "Gift shop", img: "images/motifs/gift-shop.webp?v=2" },
   };
 
   /** An SVG <symbol> for one drawing, for a page's inline sprite. */
